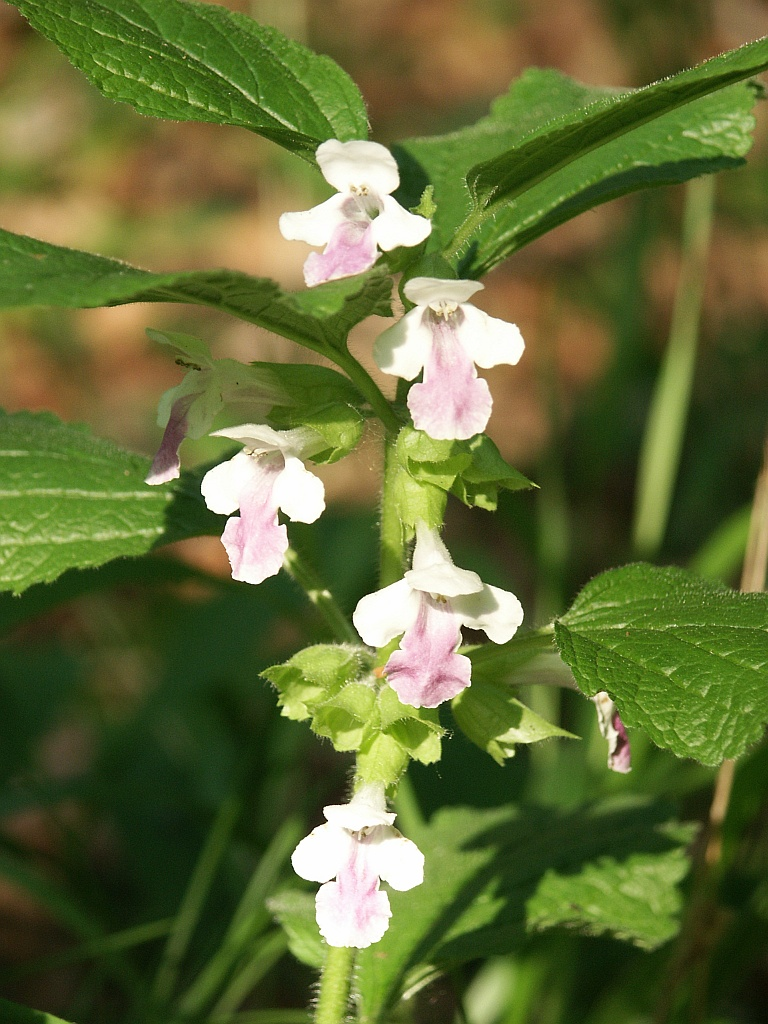
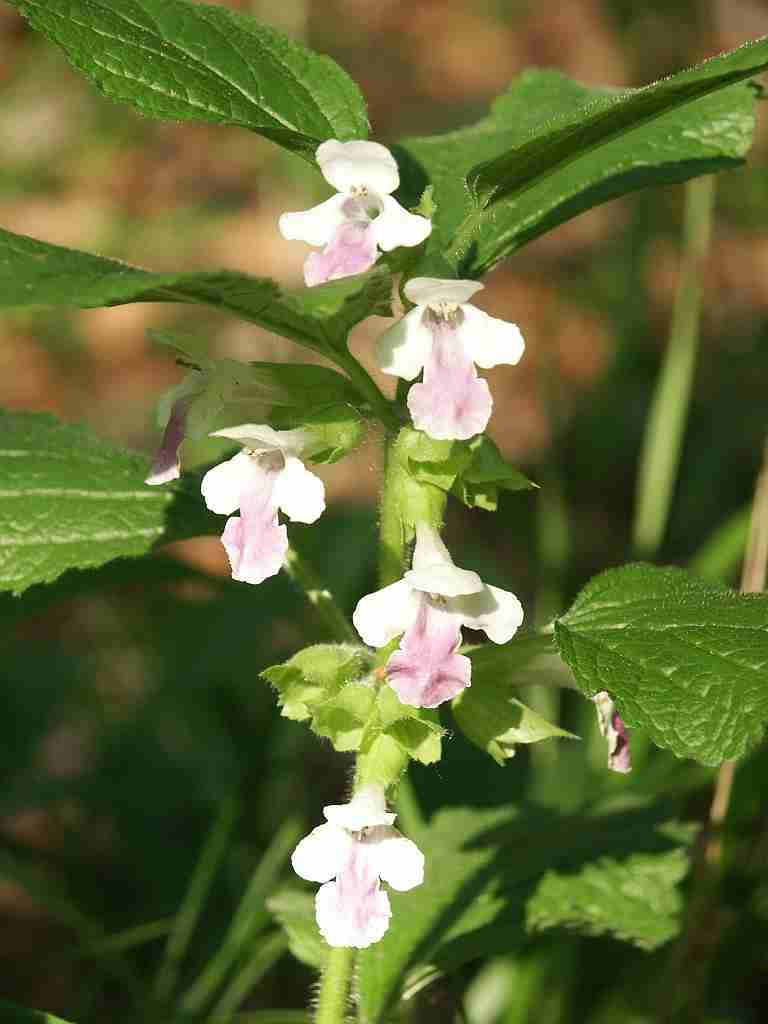
Compressed docs/resources images. Changed paths in READMEs when images were converted from png to jpeg.

diff --git a/examples/ecologists/sentinel-2a/README.md b/examples/ecologists/sentinel-2a/README.md
@@ -16,7 +16,7 @@ The sample data used in this example consists of:
 <div align="center">
   <figure>
     <a href="https://planetarycomputer.microsoft.com/explore?c=4.0129%2C43.6370&z=10.30&v=2&d=sentinel-2-l2a&m=cql%3A17367ba270405507e8f9aa7772327681&r=Natural+color&s=false%3A%3A100%3A%3Atrue&sr=desc&ae=0">
-      <img src="../../../docs/resources/S2A_MSIL2A_20190801T104031_R008_T31TEJ_20201004T190635_preview.png" alt="Sentinel2A_T31TEJ_preview" width="300"></a>
+      <img src="../../../docs/resources/S2A_MSIL2A_20190801T104031_R008_T31TEJ_20201004T190635_preview.jpg" alt="Sentinel2A_T31TEJ_preview" width="300"></a>
       <br/>
      <figcaption>Sentinel-2A tile <code>T31TEJ</code> at 01/08/2019 (dd/mm/yy)</figcaption>
   </figure>

diff --git a/examples/kaggle/geolifeclef2023/README.md b/examples/kaggle/geolifeclef2023/README.md
@@ -1,7 +1,7 @@
 # GeoLifeCLEF 2023
 
 <div align="center">
-  <a href="https://www.kaggle.com/competitions/geolifeclef-2023-lifeclef-2023-x-fgvc10?rvi=1"><img src="../../../docs/resources/GLC2023_thumbnail.png" alt="glc23_thumbnail" style="width: 200px;  margin-top: 15px; margin-right: 50px;"></a>
+  <a href="https://www.kaggle.com/competitions/geolifeclef-2023-lifeclef-2023-x-fgvc10?rvi=1"><img src="../../../docs/resources/GLC2023_thumbnail.jpg" alt="glc23_thumbnail" style="width: 200px;  margin-top: 15px; margin-right: 50px;"></a>
 </div>
 
 This repository is related to the GeoLifeCLEF challenge.

diff --git a/examples/kaggle/geolifeclef2022/README.md b/examples/kaggle/geolifeclef2022/README.md
@@ -1,7 +1,7 @@
 # GeoLifeCLEF 2022
 
 <div align="center">
-  <a href="https://www.kaggle.com/competitions/geolifeclef-2022-lifeclef-2022-fgvc9"><img src="../../../docs/resources/GLC2022_thumbnail.png" alt="glc22_thumbnail" style="width: 200px;  margin-top: 15px; margin-right: 50px;"></a>
+  <a href="https://www.kaggle.com/competitions/geolifeclef-2022-lifeclef-2022-fgvc9"><img src="../../../docs/resources/GLC2022_thumbnail.jpg" alt="glc22_thumbnail" style="width: 200px;  margin-top: 15px; margin-right: 50px;"></a>
 </div>
 
 This repository is related to the GeoLifeCLEF challenge.

diff --git a/examples/ecologists/micro_geolifeclef2022/README.md b/examples/ecologists/micro_geolifeclef2022/README.md
@@ -21,7 +21,7 @@ It consists of:
 
 <div align="center">
   <figure>
-      <img src="../../../docs/resources/mlc_10000660_nir.png" alt="mlc_10000660_nir_preview" width="300"></a>
+      <img src="../../../docs/resources/mlc_10000660_nir.jpg" alt="mlc_10000660_nir_preview" width="250"></a>
       <br/>
      <figcaption>IGN Near Infra-Red patch (id 10000660)</figcaption>
   </figure>
